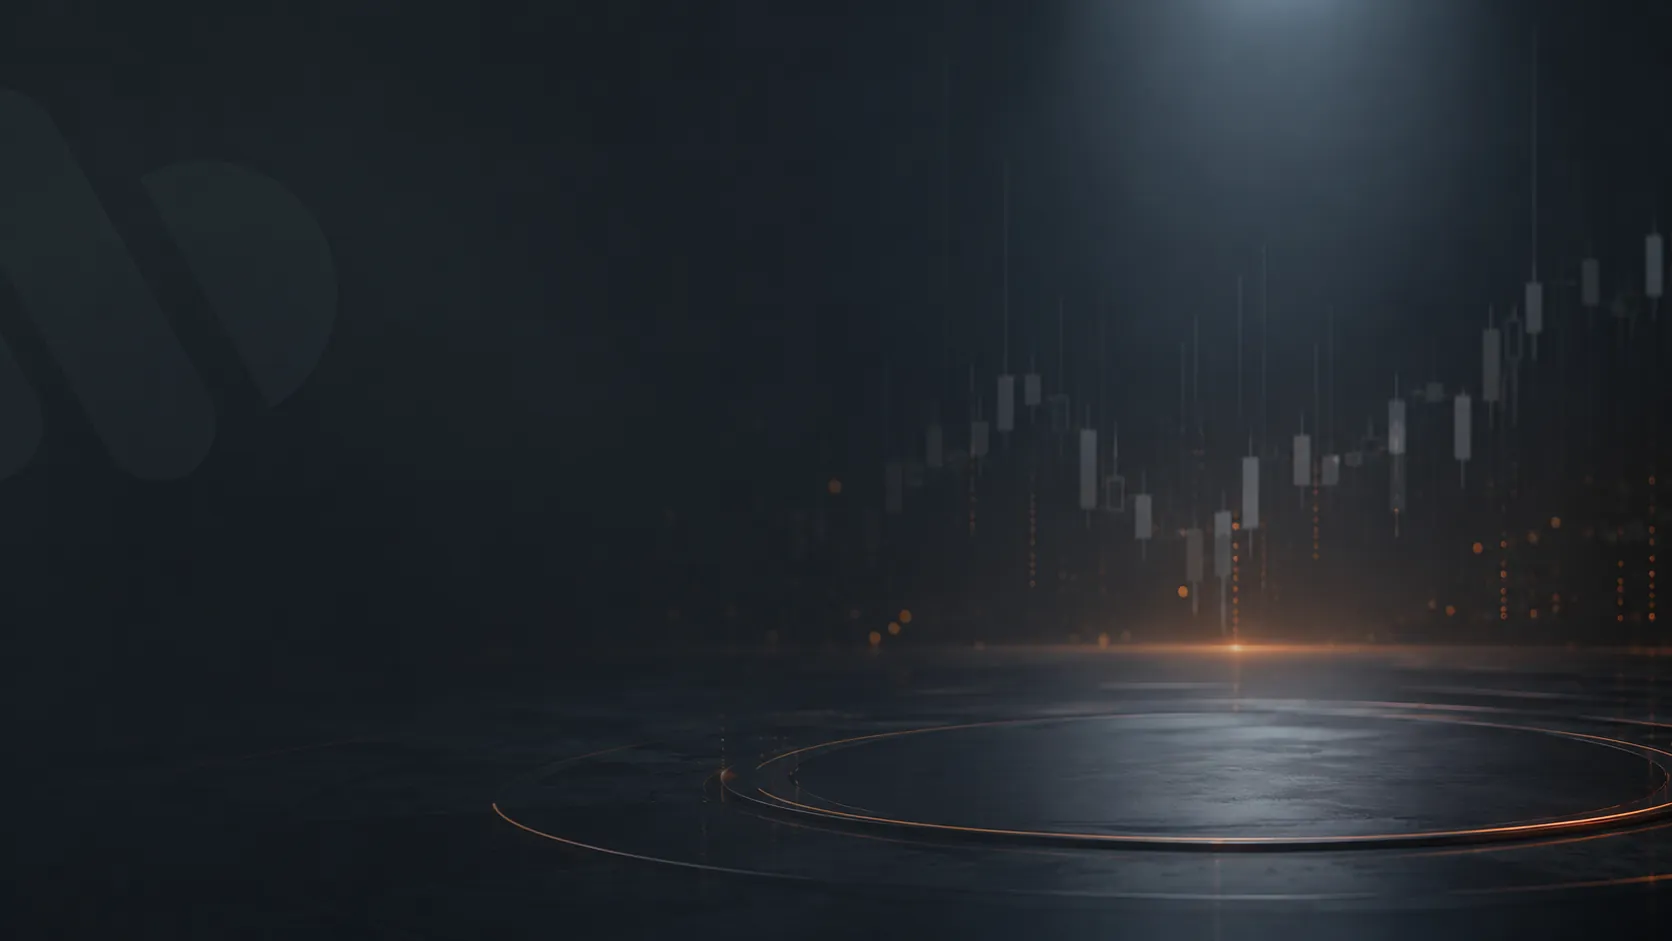
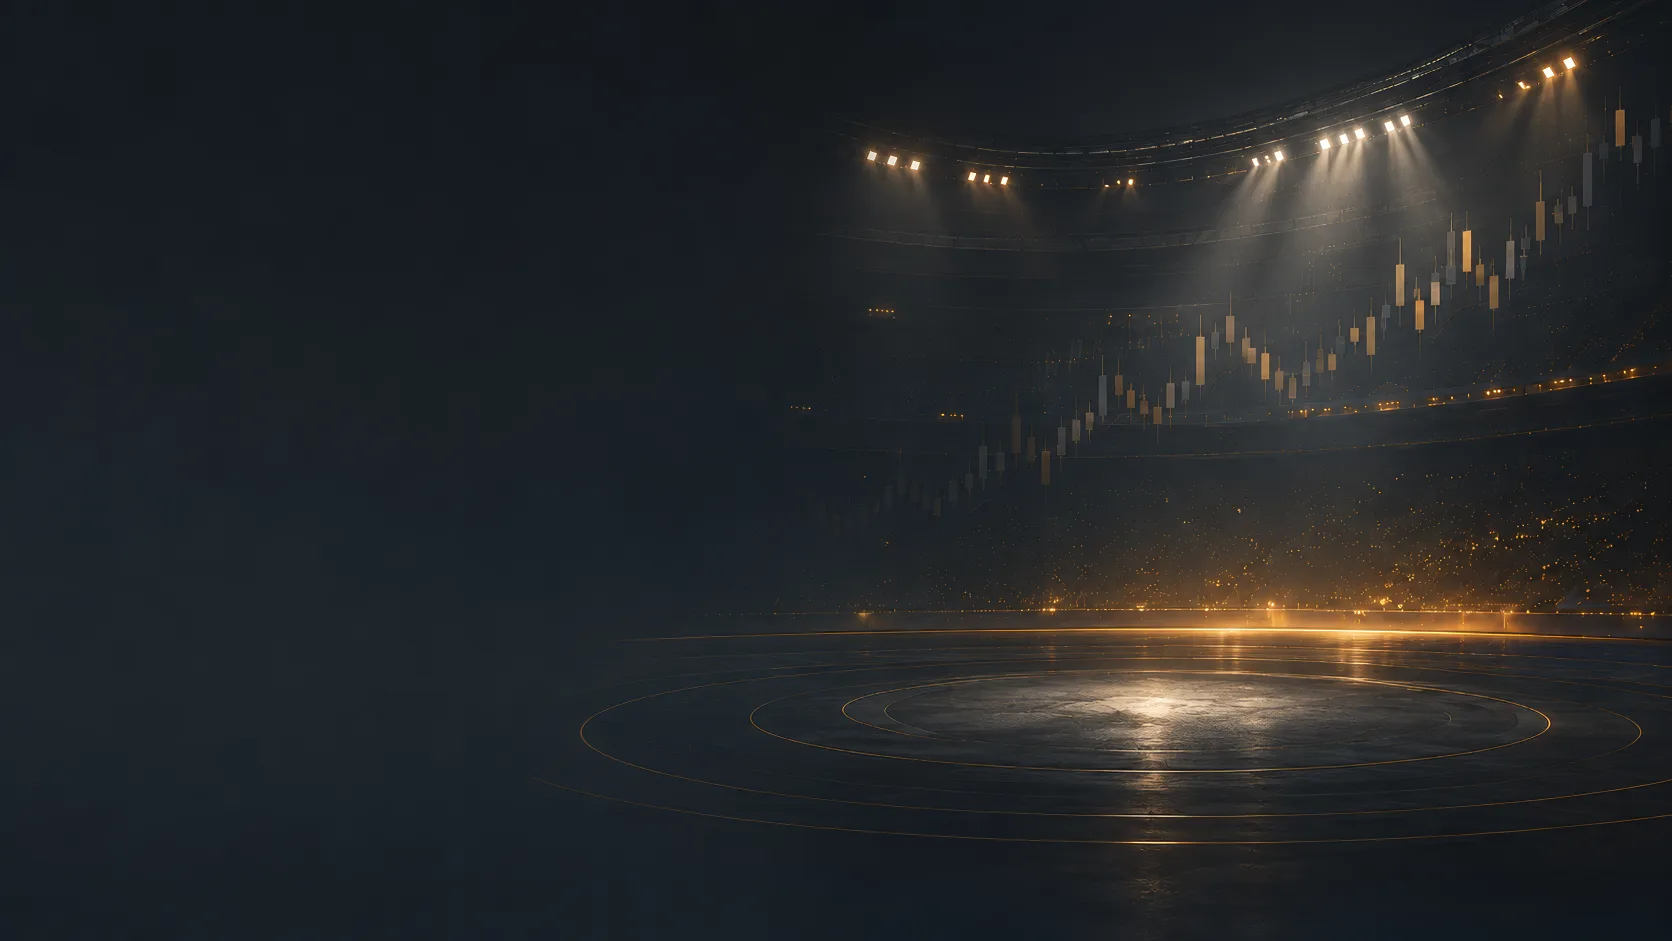
feat(hero): new desktop + mobile arena backgrounds and mobile polish
- Swap desktop hero background to new candlestick-arena image (png+webp)
- Add dedicated portrait mobile hero background, fitted (contain) so the
  full image shows without zoom/crop
- Serve mobile bg below 640px via <picture> media sources
- Mobile hero: larger $26,000! amount, single-row subhead, centered
  countdown label, bigger primary CTA, reduced gap before prizes, and
  timer/CTA shown without reveal animation
- Sticky countdown bar: full-width bottom bar with centered text and no
  arrow on mobile

diff --git a/src/styles/global.css b/src/styles/global.css
@@ -1323,12 +1323,12 @@ html[dir="rtl"] .cc-formula__result { margin-left: 0; margin-right: 4px; }
 /* Keep the (wide) Poppins headline from clipping on narrow phones */
 @media (max-width: 600px) {
   .cc-headline__lead { font-size: 22px; }
-  .cc-headline__amt { font-size: 52px; }
+  .cc-headline__amt { font-size: 66px; }
   .cc-headline-sub { font-size: 20px; }
 }
 @media (max-width: 400px) {
   .cc-headline__lead { font-size: 20px; }
-  .cc-headline__amt { font-size: 44px; }
+  .cc-headline__amt { font-size: 56px; }
 }
 
 /* ============================================================
@@ -2912,10 +2912,27 @@ html[dir="rtl"] .cc-reward__desc { text-align: right !important; }
 .cc-fab-card__cta-arrow svg { width: 100%; height: 100%; }
 
 @media (max-width: 640px) {
-  .cc-fab-card { right: 12px; bottom: 12px; width: calc(100% - 24px); max-width: 320px; }
-  .cc-fab-card__cd { padding: 12px 14px 10px; }
+  /* Full-width bar pinned to the bottom edge of the viewport */
+  .cc-fab-card {
+    left: 0;
+    right: 0;
+    bottom: 0;
+    width: 100%;
+    max-width: none;
+    border-radius: 0;
+    border-left: 0;
+    border-right: 0;
+    border-bottom: 0;
+  }
+  .cc-fab-card.is-hidden { transform: translateY(100%); }
+  /* Center the countdown (label + timer) within the full-width bar */
+  .cc-fab-card__cd { padding: 12px 16px 10px; justify-content: center; gap: 10px; }
+  .cc-fab-card__cd-row { width: auto; }
   .cc-fab-card__cd-cell span { font-size: 16px; }
-  .cc-fab-card__cta { padding: 12px 16px; font-size: 12px; }
+  /* Center the CTA label and drop the arrow */
+  .cc-fab-card__cta { padding: 14px 16px; font-size: 12px; justify-content: center; }
+  .cc-fab-card__cta-lbl { flex: none; }
+  .cc-fab-card__cta-arrow { display: none; }
 }
 
 /* Retired old SVG-ring FAB (kept rules below for legacy class compatibility) */
@@ -3009,6 +3026,13 @@ html[dir="rtl"] .cc-reward__desc { text-align: right !important; }
      left of the source image stays behind the copy column. */
   object-position: 70% center;
   display: block;
+}
+/* Mobile uses a dedicated portrait background — fit the whole image
+   (no zoom/crop), anchored to the top. The dark page bg continues
+   seamlessly below the image's dark floor. */
+@media (max-width: 640px) {
+  .cc-hero__bg-img picture,
+  .cc-hero__bg-img img { object-fit: contain; object-position: top center; }
 }
 /* Soft orange accents over the bg image */
 .cc-hero__bg-fx {
@@ -3168,6 +3192,36 @@ html[dir="rtl"] .cc-reward__desc { text-align: right !important; }
   .cc-hero .cc-hero__grid { padding: 0 18px; }
   .cc-hero__visual { min-height: 320px; }
   .cc-hero__trophy-img { max-height: 360px; }
+
+  /* "Are you the next trading Champion?" stays on one row */
+  .cc-hero .cc-headline-sub {
+    white-space: nowrap !important;
+    font-size: clamp(13px, 4.3vw, 18px) !important;
+  }
+
+  /* Show the timer + CTA immediately (no reveal animation) so they're
+     never stuck invisible above the fold on mobile */
+  .cc-hero .cc-countdown.reveal,
+  .cc-hero .cc-hero__cta-row.reveal,
+  .cc-hero .cc-hero__cta-note.reveal {
+    opacity: 1 !important;
+    transform: none !important;
+    transition: none !important;
+  }
+
+  /* Center the "UNTIL END OF THE CHAMPIONSHIP" label + countdown */
+  .cc-hero .cc-countdown.cc-countdown--strip { align-items: center; }
+  .cc-hero .cc-countdown__lbl-strip { text-align: center; }
+
+  /* Bigger primary CTA on mobile */
+  .cc-hero__cta-row .cc-hero__cta.bt-btn {
+    height: 56px;
+    padding: 0 34px;
+    font-size: 16px;
+  }
+
+  /* Tighten the gap between the hero (credit T&C note) and the prizes */
+  .cc-hero__copy { margin-bottom: 20px; }
 }
 
 /* ---- Prize cards: drop big numerals + section chrome ------ */
